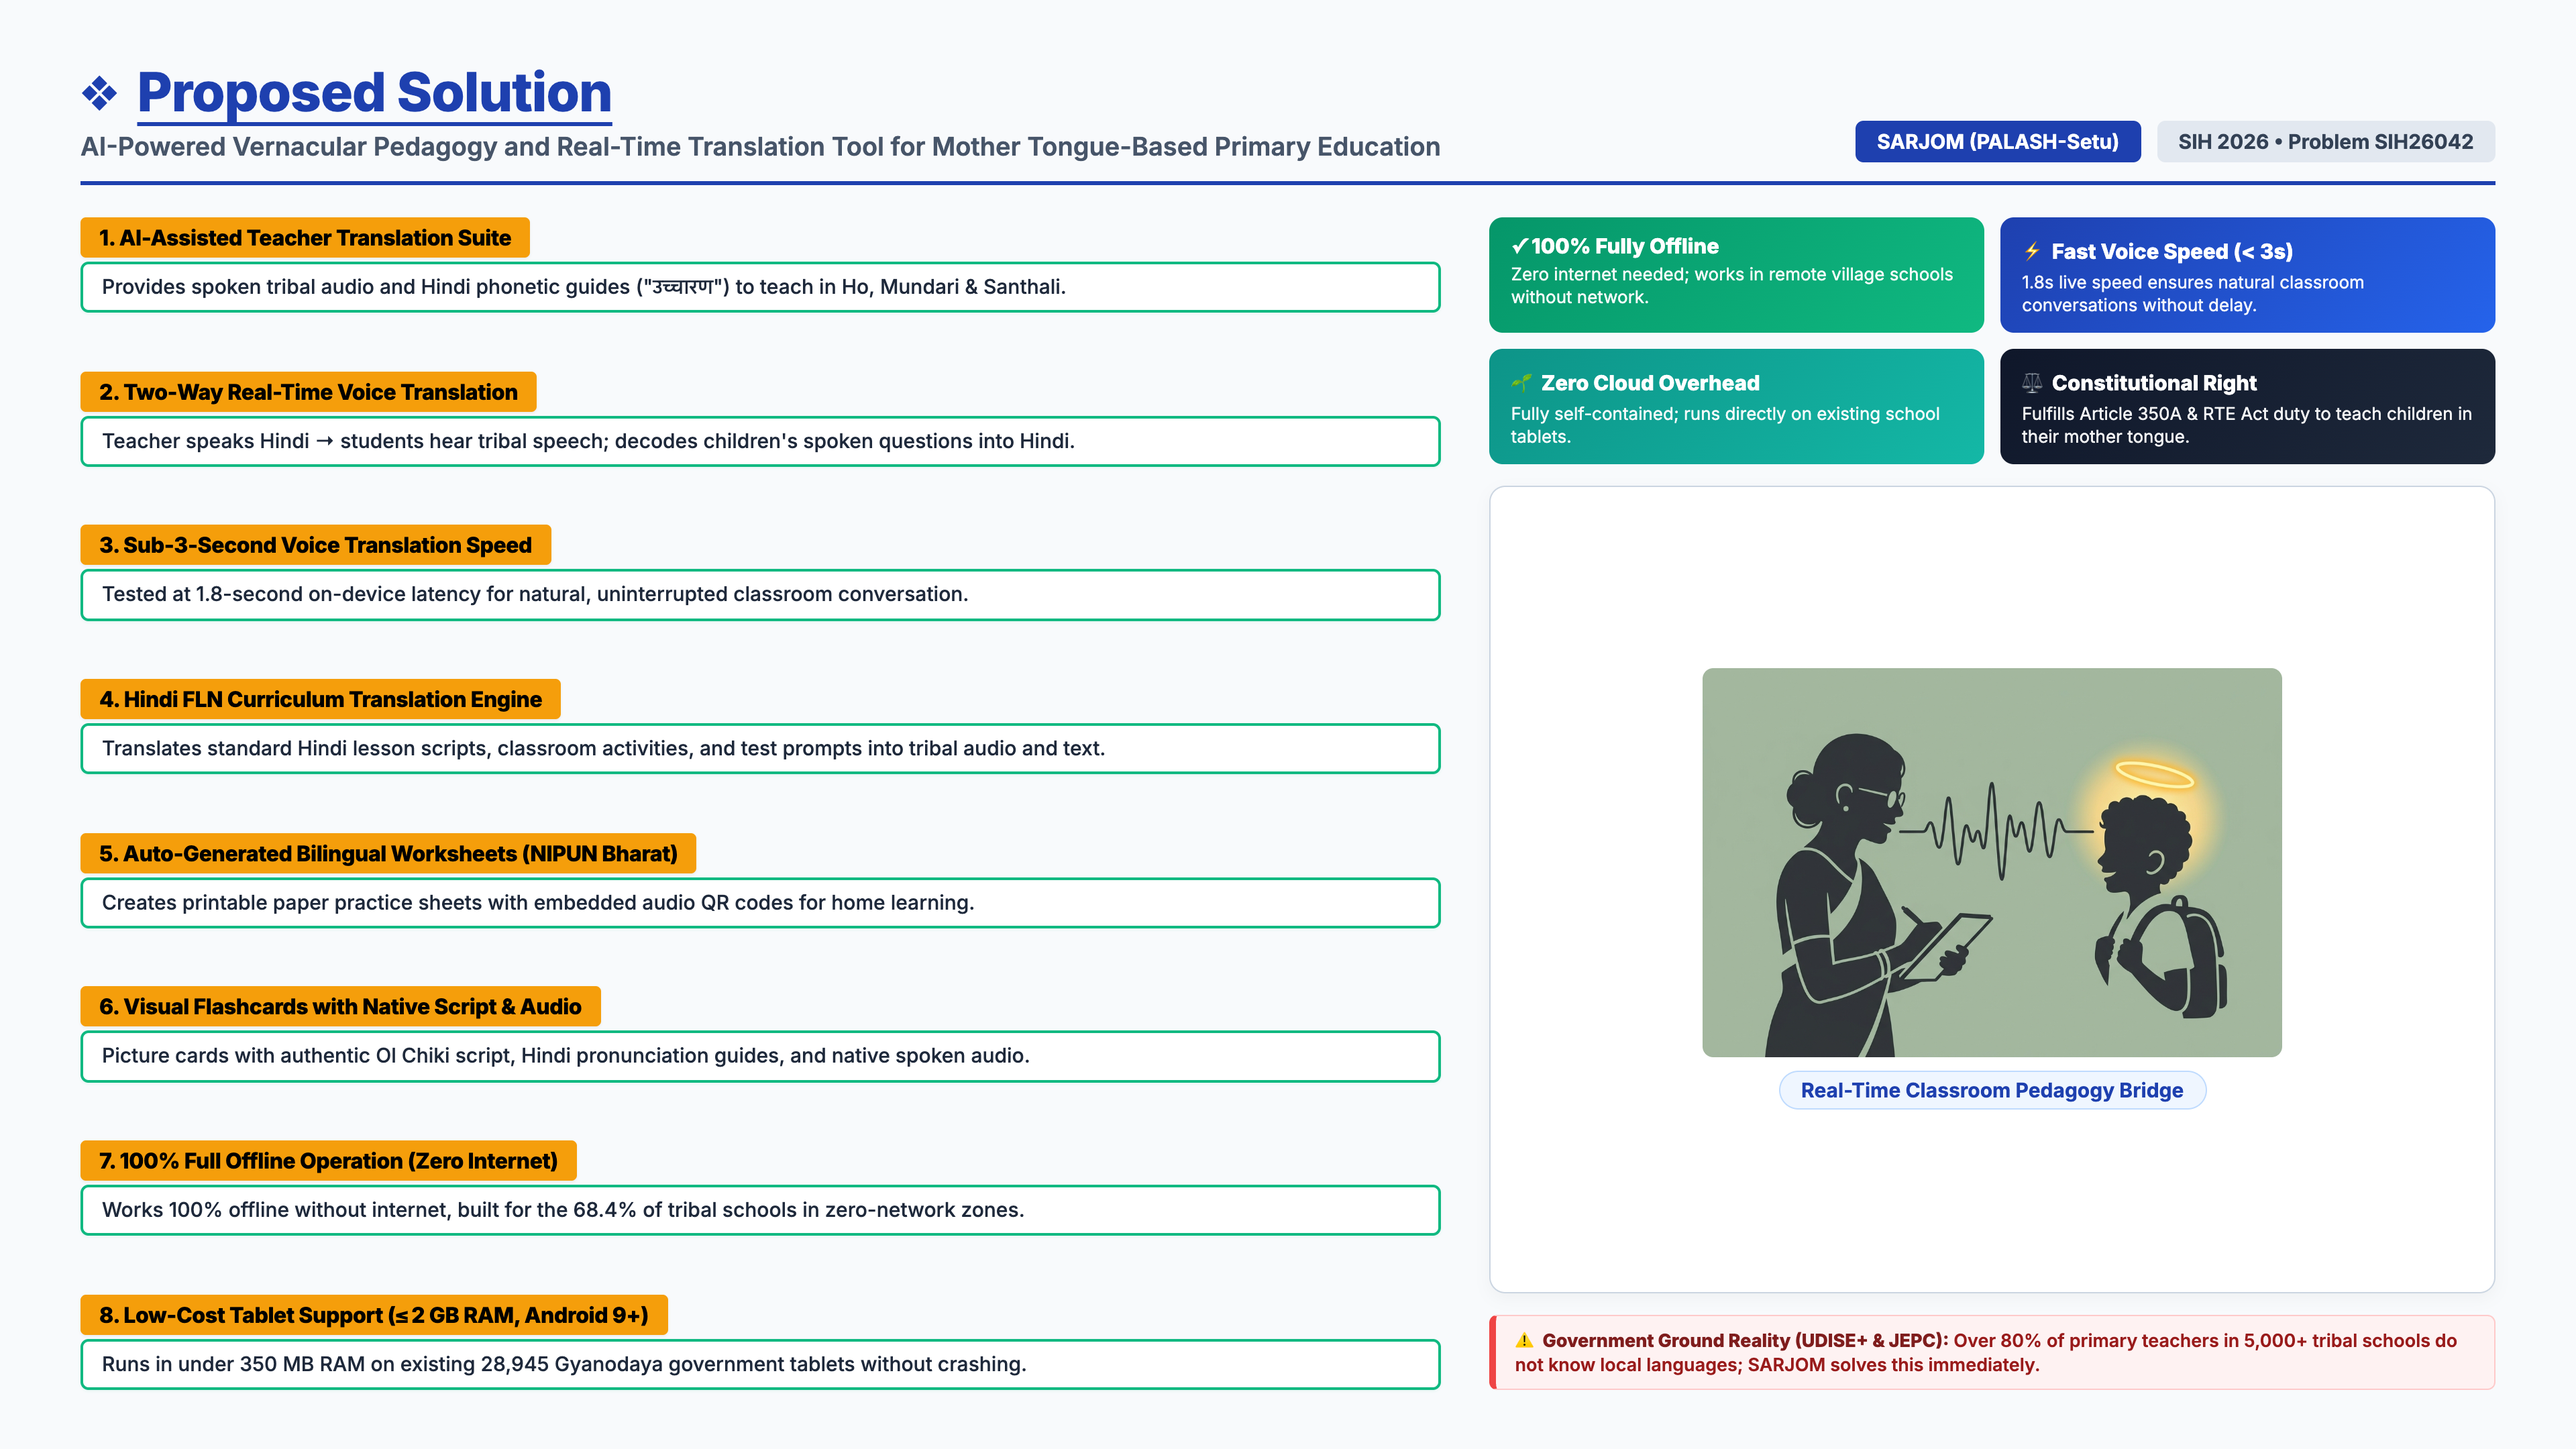
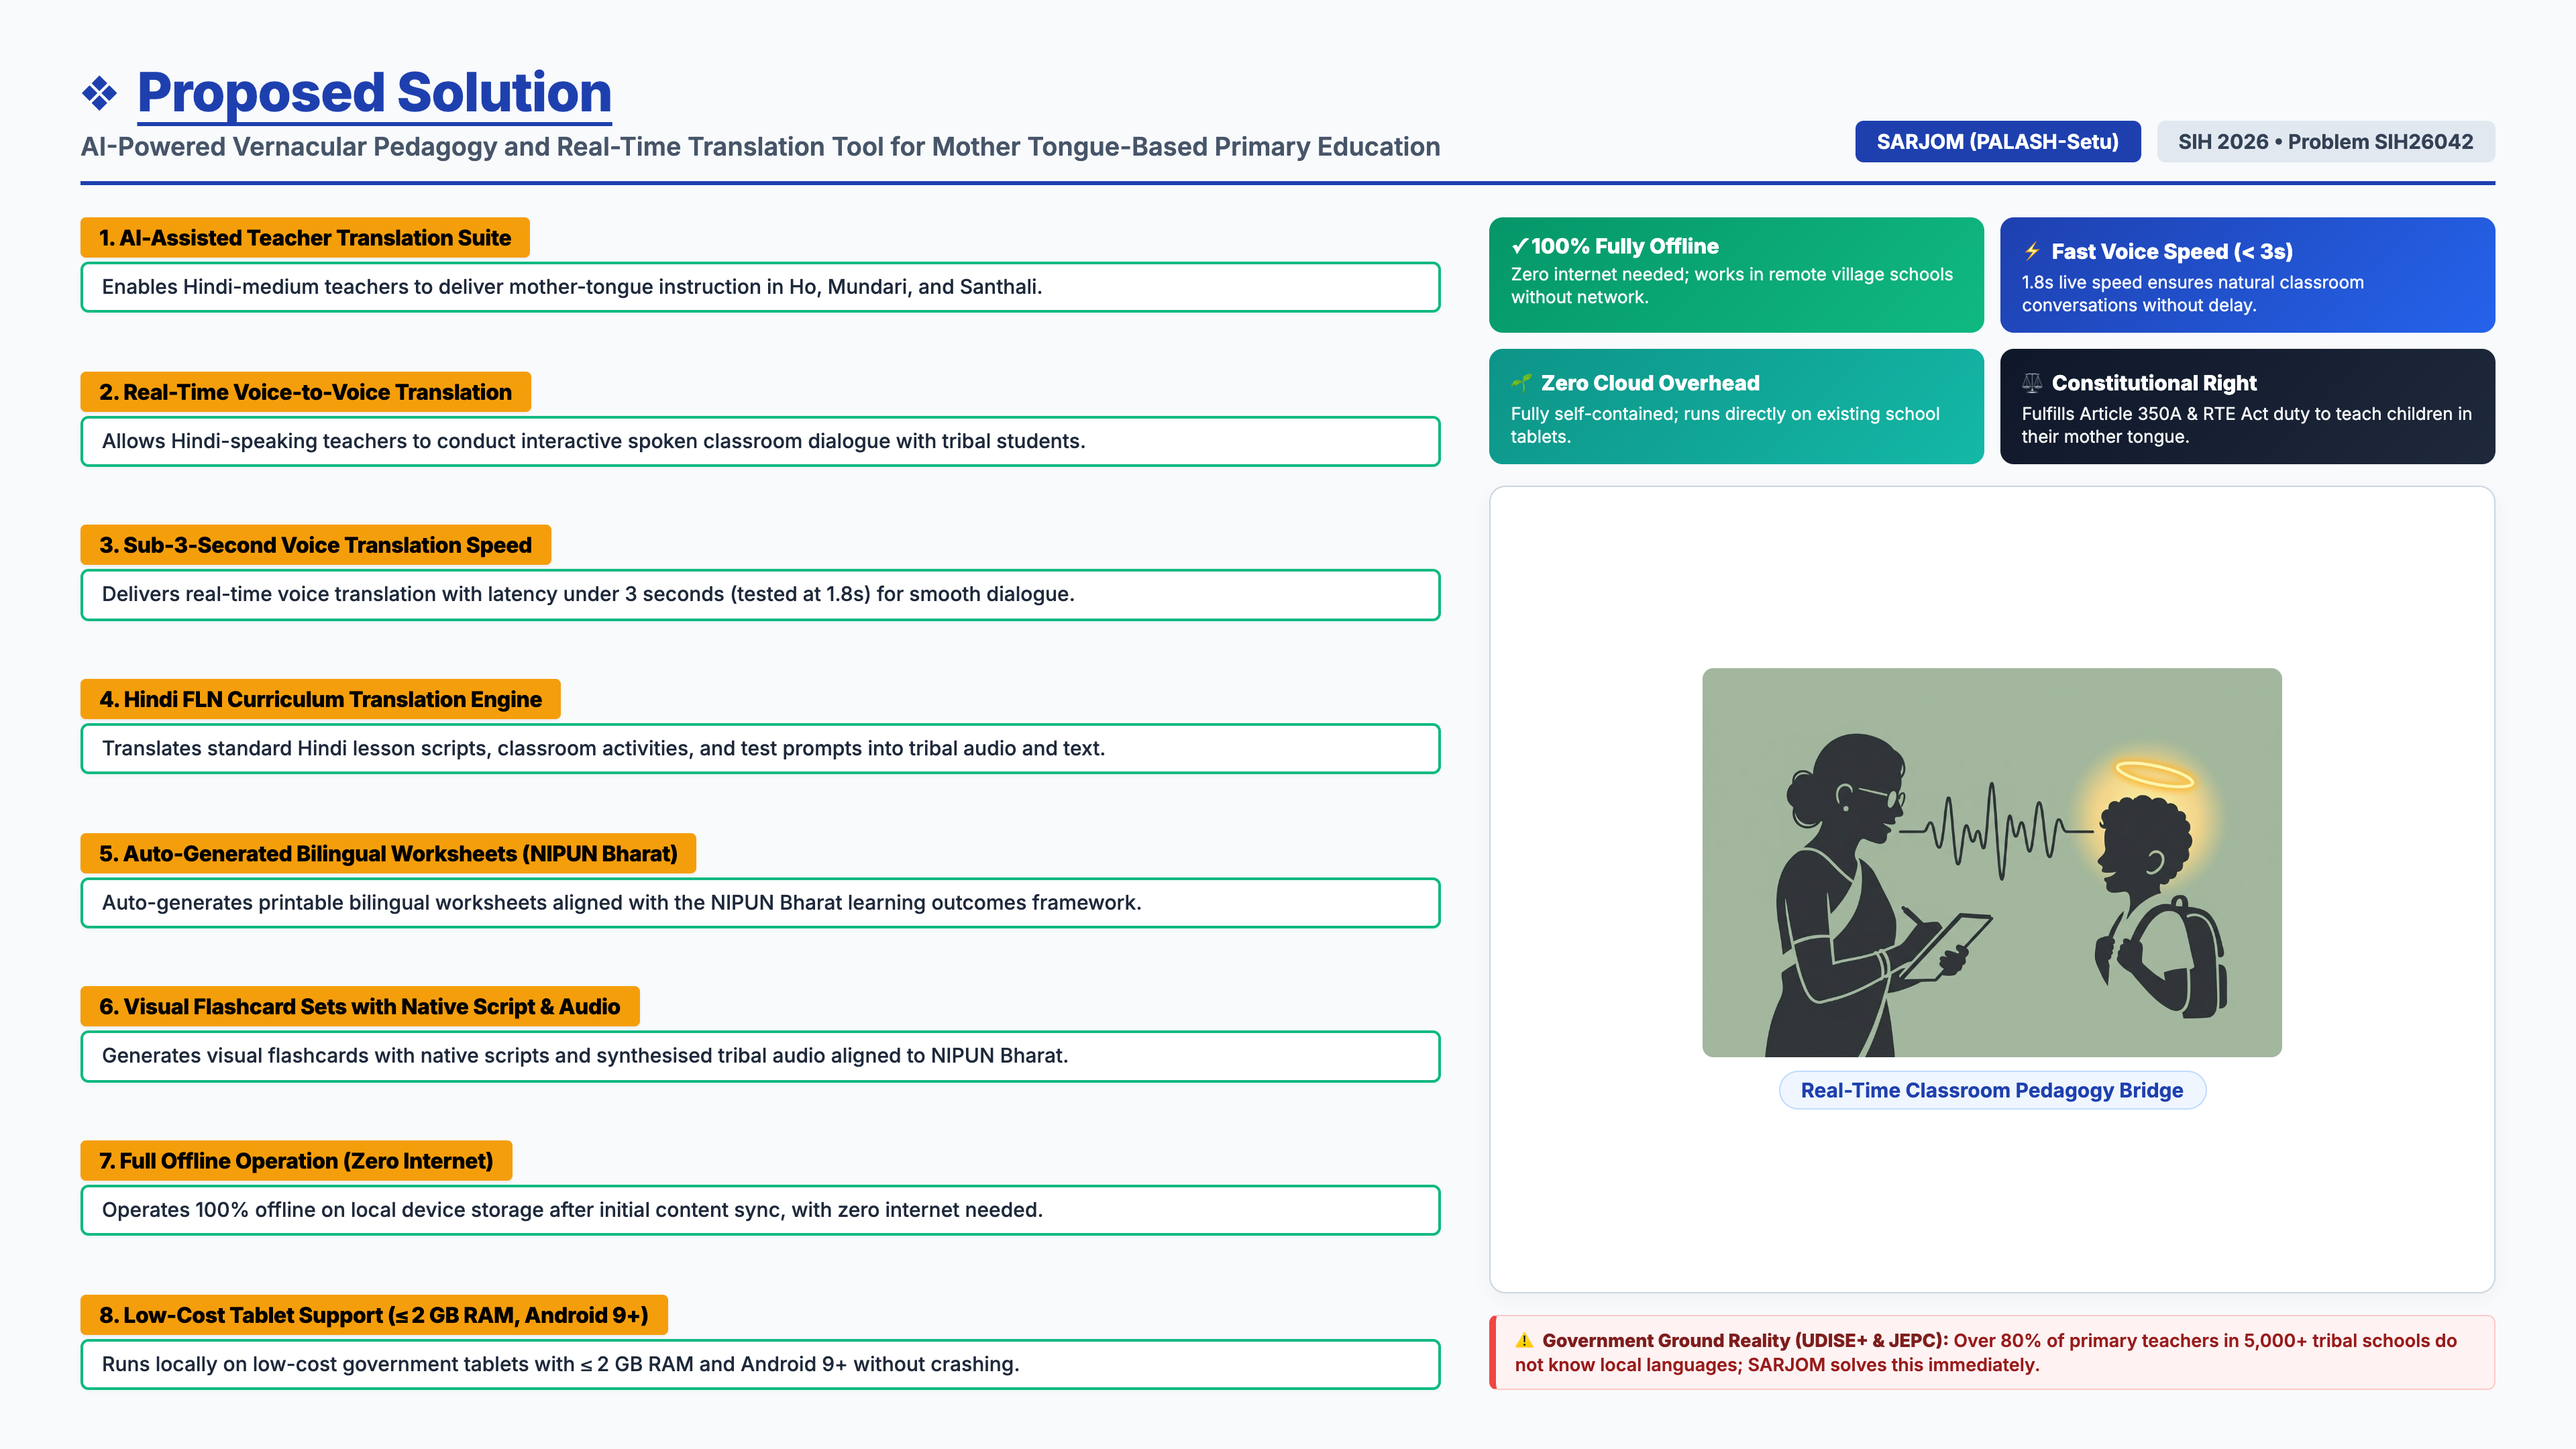
Align Slide 1 strictly with government problem description (remove innovation bleed)

diff --git a/proposed_solution_slide_8cards.html b/proposed_solution_slide_8cards.html
@@ -246,15 +246,15 @@
       <div class="feature-card">
         <div class="feature-header-bar">1. AI-Assisted Teacher Translation Suite</div>
         <div class="feature-sub-box">
-          Provides spoken tribal audio and Hindi phonetic guides ("उच्चारण") to teach in Ho, Mundari &amp; Santhali.
+          Enables Hindi-medium teachers to deliver mother-tongue instruction in Ho, Mundari, and Santhali.
         </div>
       </div>
 
       <!-- Card 2 -->
       <div class="feature-card">
-        <div class="feature-header-bar">2. Two-Way Real-Time Voice Translation</div>
+        <div class="feature-header-bar">2. Real-Time Voice-to-Voice Translation</div>
         <div class="feature-sub-box">
-          Teacher speaks Hindi &rarr; students hear tribal speech; decodes children's spoken questions into Hindi.
+          Allows Hindi-speaking teachers to conduct interactive spoken classroom dialogue with tribal students.
         </div>
       </div>
 
@@ -262,7 +262,7 @@
       <div class="feature-card">
         <div class="feature-header-bar">3. Sub-3-Second Voice Translation Speed</div>
         <div class="feature-sub-box">
-          Tested at 1.8-second on-device latency for natural, uninterrupted classroom conversation.
+          Delivers real-time voice translation with latency under 3 seconds (tested at 1.8s) for smooth dialogue.
         </div>
       </div>
 
@@ -278,23 +278,23 @@
       <div class="feature-card">
         <div class="feature-header-bar">5. Auto-Generated Bilingual Worksheets (NIPUN Bharat)</div>
         <div class="feature-sub-box">
-          Creates printable paper practice sheets with embedded audio QR codes for home learning.
+          Auto-generates printable bilingual worksheets aligned with the NIPUN Bharat learning outcomes framework.
         </div>
       </div>
 
       <!-- Card 6 -->
       <div class="feature-card">
-        <div class="feature-header-bar">6. Visual Flashcards with Native Script &amp; Audio</div>
+        <div class="feature-header-bar">6. Visual Flashcard Sets with Native Script &amp; Audio</div>
         <div class="feature-sub-box">
-          Picture cards with authentic Ol Chiki script, Hindi pronunciation guides, and native spoken audio.
+          Generates visual flashcards with native scripts and synthesised tribal audio aligned to NIPUN Bharat.
         </div>
       </div>
 
       <!-- Card 7 -->
       <div class="feature-card">
-        <div class="feature-header-bar">7. 100% Full Offline Operation (Zero Internet)</div>
+        <div class="feature-header-bar">7. Full Offline Operation (Zero Internet)</div>
         <div class="feature-sub-box">
-          Works 100% offline without internet, built for the 68.4% of tribal schools in zero-network zones.
+          Operates 100% offline on local device storage after initial content sync, with zero internet needed.
         </div>
       </div>
 
@@ -302,7 +302,7 @@
       <div class="feature-card">
         <div class="feature-header-bar">8. Low-Cost Tablet Support (&le; 2 GB RAM, Android 9+)</div>
         <div class="feature-sub-box">
-          Runs in under 350 MB RAM on existing 28,945 Gyanodaya government tablets without crashing.
+          Runs locally on low-cost government tablets with &le; 2 GB RAM and Android 9+ without crashing.
         </div>
       </div>
 

diff --git a/PROPOSED_SOLUTION_SLIDE_AND_DATA.md b/PROPOSED_SOLUTION_SLIDE_AND_DATA.md
@@ -301,20 +301,20 @@ Formatted in the exact presentation layout: **[Header Bar]** + **[Outlined Sub-b
 
 [ 1. AI-Assisted Teacher Translation Suite ]
 ┌─────────────────────────────────────────────────────────────────────────────────────────┐
-│ Provides spoken tribal audio and Hindi phonetic guides ("उच्चारण") to teach in Ho,      │
-│ Mundari & Santhali.                                                                     │
+│ Enables Hindi-medium teachers to deliver mother-tongue instruction in Ho, Mundari, and  │
+│ Santhali.                                                                               │
 └─────────────────────────────────────────────────────────────────────────────────────────┘
 
-[ 2. Two-Way Real-Time Voice Translation ]
+[ 2. Real-Time Voice-to-Voice Translation ]
 ┌─────────────────────────────────────────────────────────────────────────────────────────┐
-│ Teacher speaks Hindi → students hear tribal speech; decodes children's spoken           │
-│ questions into Hindi.                                                                   │
+│ Allows Hindi-speaking teachers to conduct interactive spoken classroom dialogue with    │
+│ tribal students.                                                                        │
 └─────────────────────────────────────────────────────────────────────────────────────────┘
 
 [ 3. Sub-3-Second Voice Translation Speed ]
 ┌─────────────────────────────────────────────────────────────────────────────────────────┐
-│ Tested at 1.8-second on-device latency for natural, uninterrupted classroom             │
-│ conversation.                                                                           │
+│ Delivers real-time voice translation with latency under 3 seconds (tested at 1.8s) for  │
+│ smooth dialogue.                                                                        │
 └─────────────────────────────────────────────────────────────────────────────────────────┘
 
 [ 4. Hindi FLN Curriculum Translation Engine ]
@@ -325,30 +325,31 @@ Formatted in the exact presentation layout: **[Header Bar]** + **[Outlined Sub-b
 
 [ 5. Auto-Generated Bilingual Worksheets (NIPUN Bharat) ]
 ┌─────────────────────────────────────────────────────────────────────────────────────────┐
-│ Creates printable paper practice sheets with embedded audio QR codes for home learning. │
+│ Auto-generates printable bilingual worksheets aligned with the NIPUN Bharat learning   │
+│ outcomes framework.                                                                     │
 └─────────────────────────────────────────────────────────────────────────────────────────┘
 
-[ 6. Visual Flashcards with Native Script & Audio ]
+[ 6. Visual Flashcard Sets with Native Script & Audio ]
 ┌─────────────────────────────────────────────────────────────────────────────────────────┐
-│ Picture cards with authentic Ol Chiki script, Hindi pronunciation guides, and native    │
-│ spoken audio.                                                                           │
+│ Generates visual flashcards with native scripts and synthesised tribal audio aligned    │
+│ to NIPUN Bharat.                                                                        │
 └─────────────────────────────────────────────────────────────────────────────────────────┘
 
-[ 7. 100% Full Offline Operation (Zero Internet) ]
+[ 7. Full Offline Operation (Zero Internet) ]
 ┌─────────────────────────────────────────────────────────────────────────────────────────┐
-│ Works 100% offline without internet, built for the 68.4% of tribal schools in zero-     │
-│ network zones.                                                                          │
+│ Operates 100% offline on local device storage after initial content sync, with zero    │
+│ internet needed.                                                                        │
 └─────────────────────────────────────────────────────────────────────────────────────────┘
 
 [ 8. Low-Cost Tablet Support (≤ 2 GB RAM, Android 9+) ]
 ┌─────────────────────────────────────────────────────────────────────────────────────────┐
-│ Runs in under 350 MB RAM on existing 28,945 Gyanodaya government tablets without         │
+│ Runs locally on low-cost government tablets with ≤ 2 GB RAM and Android 9+ without      │
 │ crashing.                                                                               │
 └─────────────────────────────────────────────────────────────────────────────────────────┘
 
 Connected Strategic Benefits (Right-Hand Nodes):
   • [ 100% Fully Offline ]: Zero internet needed; works in remote village schools without network.
-  • [ Fast Voice Speed (< 3s) ]: 1.8s live speed ensures smooth two-way classroom conversation without delay.
+  • [ Fast Voice Speed (< 3s) ]: 1.8s live speed ensures natural classroom conversations without delay.
   • [ Zero Cloud Overhead ]: Fully self-contained; runs directly on existing school tablets.
   • [ Constitutional Right ]: Fulfills Article 350A & RTE Act duty to teach children in their mother tongue.
 ```
